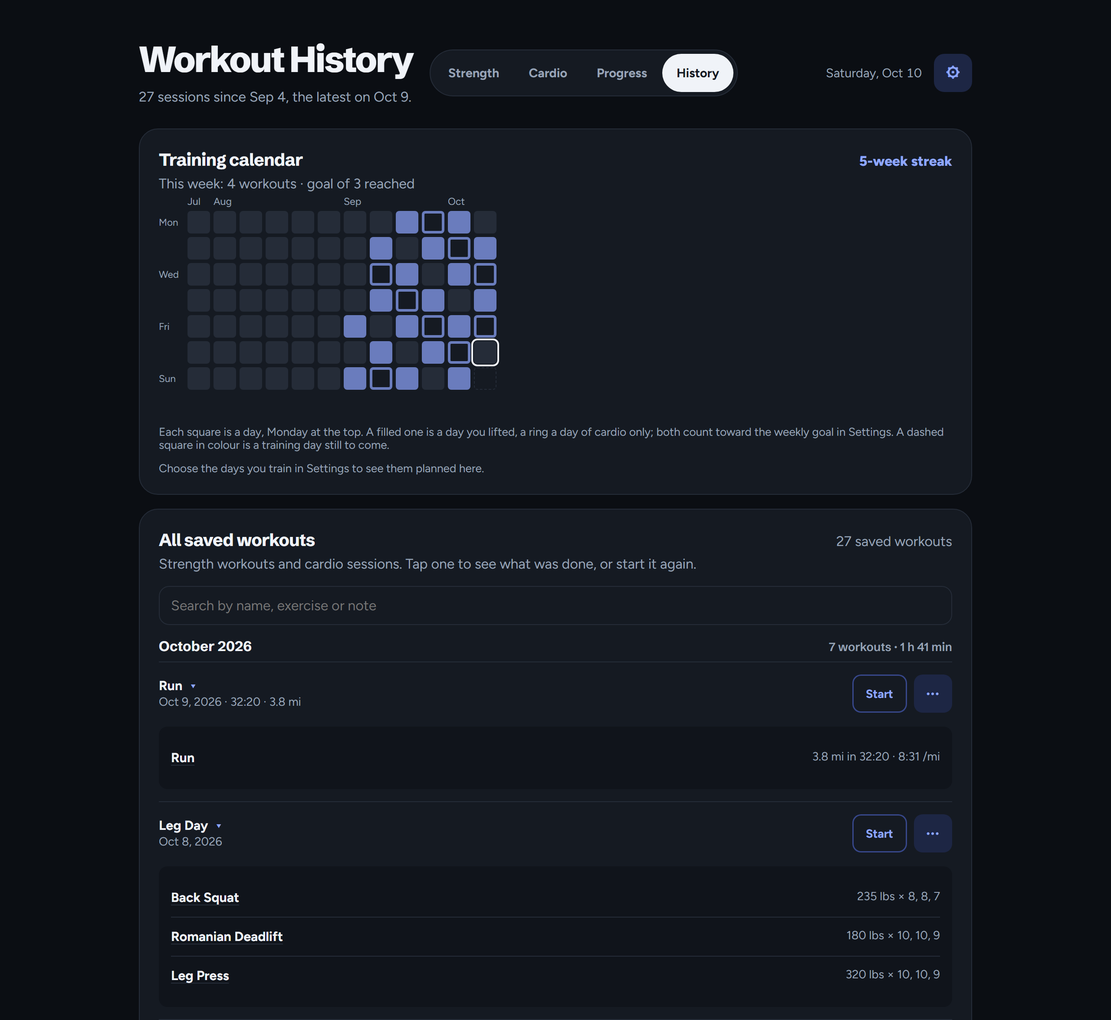
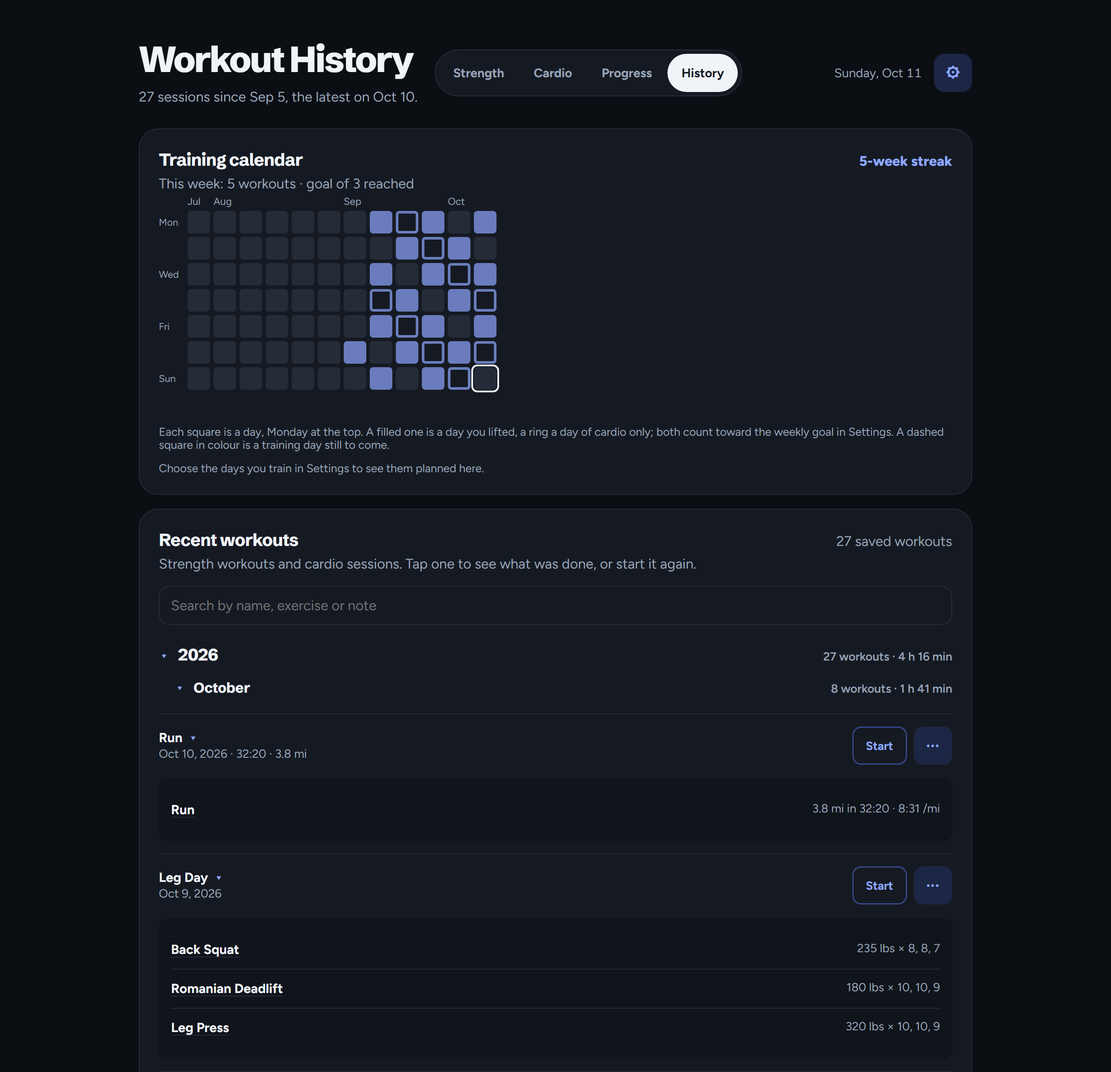
Call the list Recent workouts, and fold History's list into years and months
"Saved workouts" on the Tracker, and "All saved workouts" on History, are now "Recent
workouts".

History's list was one long column: each month under a heading, the latest three months
showing and a button for the rest. It is now years, each holding months, each a heading
that folds and opens (a <details>, so the keyboard and screen readers have it for free),
with its workouts and time beside it. The latest year and its latest month start open
and the rest folded. What is opened or folded by hand is kept when the list is drawn
again (a search, a deletion); a search opens every year and month that has a match, and a
day tapped on the calendar opens the year and month it is in. Show older goes, since
nothing is held back any more.

Every row stays in the page, folded or not, so nothing that looks for a workout in the
list changes. The triangle on a heading is the accent's, as on the other folded things.

Tests: the P9 History block covers a heading for each year and month with its totals, the
latest open and the rest folded, a heading opening and folding its month, a search
opening what it found, what was opened staying so, and the calendar opening a folded
month; both headings. Docs and README screenshots updated.

diff --git a/frontend/history.js b/frontend/history.js
@@ -1,9 +1,11 @@
 // ---- Every saved workout ---------------------------------------------------
-// One line a workout (tap it for its sets), under a heading for its month with that month's workouts and time. A search
-// narrows the list to workouts whose name, exercises or notes have every word typed. The latest few months show at
-// first and Show older brings the rest; a search, or a day picked on the calendar, looks through all of them.
-const monthsShownAtFirst = 3;
-let showingAllMonths = false;
+// One line a workout (tap it for its sets), in a month, in a year; each year and month is folded or open on its heading, with its
+// workouts and time beside it. The latest year and month start open and the rest folded, so the list is not one long column. A
+// search narrows the list to workouts whose name, exercises or notes have every word typed, with every year and month that has
+// one open; a day picked on the calendar opens the year and month it is in.
+// What was opened or closed by hand ("year:2026", "month:2026-10" to true or false), kept when the list is drawn again (a search,
+// a deletion). A group with nothing said about it is open if it is the latest one.
+const groupOpened = new Map();
 // Workouts opened to show their sets, kept open when the list is drawn again (a search, a deletion).
 const openWorkouts = new Set();
 
@@ -20,8 +22,8 @@ function matchesSearch(workout, words) {
   return words.every(word => text.includes(word));
 }
 
-// "12 workouts · 11 h 40 min": the time only counts workouts that were timed.
-function describeMonth(workouts) {
+// "12 workouts · 11 h 40 min", of a month or a year: the time only counts workouts that were timed.
+function describeGroup(workouts) {
   const seconds = workouts.reduce((sum, workout) => sum + (Number(workout.duration) > 0 ? Number(workout.duration) : 0), 0);
   return [plural(workouts.length, 'workout'), seconds ? formatDuration(seconds) : ''].filter(Boolean).join(' · ');
 }
@@ -70,24 +72,43 @@ function renderHistory(workouts) {
   const words = searchWords();
   const shown = words.length ? workouts.filter(workout => matchesSearch(workout, words)) : workouts;
   $('historySummary').textContent = words.length ? `${shown.length} of ${plural(workouts.length, 'saved workout')}` : plural(workouts.length, 'saved workout');
-  // Newest first, as the server sends them, so each month's workouts arrive together.
-  const months = new Map();
+  // Newest first, as the server sends them, so each month's workouts arrive together, and the months of a year.
+  const years = new Map();
   shown.forEach(workout => {
-    const key = monthKey(new Date(workout.createdAt));
-    months.set(key, [...(months.get(key) || []), workout]);
+    const date = new Date(workout.createdAt);
+    const months = years.get(date.getFullYear()) || new Map();
+    months.set(monthKey(date), [...(months.get(monthKey(date)) || []), workout]);
+    years.set(date.getFullYear(), months);
   });
-  const everyMonth = showingAllMonths || words.length > 0;
-  const folded = everyMonth ? [] : [...months.values()].slice(monthsShownAtFirst).flat();
-  const list = [...months].map(([key, monthWorkouts], index) => {
-    const [year, month] = key.split('-').map(Number);
-    const name = new Date(year, month - 1, 1).toLocaleDateString(undefined, { month:'long', year:'numeric' });
-    return `<li class="history-month" data-month="${key}"${!everyMonth && index >= monthsShownAtFirst ? ' hidden' : ''}>`
-      + `<h3 class="history-month-heading"><span>${escapeHTML(name)}</span><span class="history-month-total">${escapeHTML(describeMonth(monthWorkouts))}</span></h3>`
-      + `<ul class="history-month-list">${monthWorkouts.map(historyRow).join('')}</ul></li>`;
+  // A search opens everything it found; otherwise what was said by hand, and the latest year and month when nothing was.
+  const isOpen = (key, latest) => words.length > 0 || (groupOpened.has(key) ? groupOpened.get(key) : latest);
+  const group = (className, open, name, total, body) => `<details class="history-group ${className}"${open ? ' open' : ''}>`
+    + `<summary class="history-group-summary"><h3 class="history-group-name">${escapeHTML(name)}</h3>`
+    + `<span class="history-group-total">${escapeHTML(total)}</span></summary>${body}</details>`;
+  const list = [...years].map(([year, months], yearIndex) => {
+    const monthItems = [...months].map(([key, monthWorkouts], monthIndex) => {
+      const name = new Date(Number(key.slice(0, 4)), Number(key.slice(5)) - 1, 1).toLocaleDateString(undefined, { month:'long' });
+      return `<li class="history-month" data-month="${key}">`
+        + group('history-month-group', isOpen(`month:${key}`, yearIndex === 0 && monthIndex === 0), name, describeGroup(monthWorkouts),
+          `<ul class="history-month-list">${monthWorkouts.map(historyRow).join('')}</ul>`) + '</li>';
+    }).join('');
+    return `<li class="history-year" data-year="${year}">`
+      + group('history-year-group', isOpen(`year:${year}`, yearIndex === 0), String(year), describeGroup([...months.values()].flat()),
+        `<ul class="history-year-list">${monthItems}</ul>`) + '</li>';
   }).join('');
-  const older = folded.length ? `<li class="more-workouts"><button class="secondary" type="button" data-action="older">Show ${plural(folded.length, 'older workout')}</button></li>` : '';
-  $('historyList').innerHTML = shown.length ? list + older
+  $('historyList').innerHTML = shown.length ? list
     : `<li class="empty">${workouts.length ? 'No saved workouts match that search.' : 'No saved workouts yet.'}</li>`;
+}
+
+// A year or a month opened or closed by its heading. Drawn by hand, not left to the browser, so what was said is kept (groupOpened)
+// when the list is drawn again; while a search has everything open, a heading only shows or hides, and nothing is kept.
+function toggleHistoryGroup(summary) {
+  const details = summary.parentElement;
+  const item = details.parentElement;
+  const open = !details.open;
+  details.open = open;
+  if (searchWords().length) return;
+  groupOpened.set(item.dataset.month ? `month:${item.dataset.month}` : `year:${item.dataset.year}`, open);
 }
 
 function showHistoryFeedback(message, failed = false) {
@@ -121,17 +142,15 @@ function showWorkoutDetails(row, open) {
 }
 
 $('historyList').onclick = event => {
+  const heading = event.target.closest('.history-group-summary');
+  if (heading) {
+    event.preventDefault();
+    toggleHistoryGroup(heading);
+    return;
+  }
   const button = event.target.closest('[data-action]');
   if (!button || !historyWorkouts) return;
   const action = button.dataset.action;
-  if (action === 'older') {
-    const first = $('historyList').querySelector('.history-month[hidden]');
-    showingAllMonths = true;
-    renderHistory(historyWorkouts);
-    // Focus goes to the first workout that was folded away, where reading carries on.
-    if (first) $('historyList').querySelector(`.history-month[data-month="${first.dataset.month}"] .saved-workout-toggle`)?.focus();
-    return;
-  }
   const row = button.closest('.history-workout');
   const workout = historyWorkouts.find(item => String(item.id) === row.dataset.id);
   if (!workout) return;
@@ -276,13 +295,15 @@ function showCalendarDay(event) {
 }
 
 // Tapping a day you trained (or Enter on it) goes to its workouts in the list, opened and marked for a moment. One that
-// a search or Show older is keeping out of sight is brought back into it first.
+// a search is keeping out of the list, or a folded year or month is keeping out of sight, is brought back into it first.
 function goToDay(key) {
   const rows = () => [...$('historyList').querySelectorAll(`.history-workout[data-date="${key}"]`)];
   let found = rows();
-  if (!found.length || found.some(row => row.closest('.history-month[hidden]'))) {
+  if (!found.length || found.some(row => row.closest('details:not([open])'))) {
     $('historySearch').value = '';
-    showingAllMonths = true;
+    // A day is "2026-10-09" and its month "2026-10".
+    groupOpened.set(`year:${key.slice(0, 4)}`, true);
+    groupOpened.set(`month:${key.slice(0, 7)}`, true);
     renderHistory(historyWorkouts);
     found = rows();
   }

diff --git a/frontend/styles.css b/frontend/styles.css
@@ -651,10 +651,21 @@ body.has-install-banner .rest-panel { bottom:calc(84px + var(--tab-bar)); }
 /* History: a search, then the workouts a month at a time under a heading with the month's count and time. */
 .history-search { margin-top:16px; }
 .history-feedback { margin:12px 0 0; }
-.history-month-heading { display:flex; flex-wrap:wrap; justify-content:space-between; align-items:baseline; gap:4px 12px; margin:28px 0 8px; font-size:1rem; }
-.history-month:first-child .history-month-heading { margin-top:6px; }
-.history-month-total { color:var(--muted); font-size:.85rem; font-weight:600; }
-.history-month-list { margin:0; padding:0; list-style:none; }
+/* The list is years, each holding months, each folded or open on its heading, with its workouts and time at the right. The heading is
+   the summary of a <details>; its triangle is the accent's, as the other folded things', and turns down when open. A year is the larger
+   heading and is set off from the one above by a hairline. */
+.history-year-list, .history-month-list { margin:0; padding:0; list-style:none; }
+.history-group > summary { display:flex; flex-wrap:wrap; align-items:baseline; gap:2px 10px; list-style:none; cursor:pointer; }
+.history-group > summary::-webkit-details-marker { display:none; }
+.history-group > summary::before { content:"\25B8"; color:var(--accent); font-size:.9em; }
+.history-group[open] > summary::before { content:"\25BE"; }
+.history-group-name { margin:0; font-size:1.02rem; font-weight:750; letter-spacing:-.01em; }
+.history-group-total { margin-left:auto; color:var(--muted); font-size:.85rem; font-weight:600; }
+.history-year { margin-top:10px; border-top:1px solid var(--line); }
+.history-year:first-child { margin-top:6px; border-top:0; }
+.history-year-group > summary .history-group-name { font-size:1.2rem; font-weight:800; letter-spacing:-.025em; }
+.history-year-group > summary { padding:8px 0; }
+.history-month-group > summary { padding:4px 0 4px 18px; }
 .row-actions > .button-link { padding:8px 16px; }
 /* A day picked on the calendar marks its workouts for a moment. */
 @keyframes picked { from { background:var(--accent-soft); box-shadow:0 0 0 8px var(--accent-soft); } to { background:transparent; box-shadow:0 0 0 8px transparent; } }

diff --git a/frontend/history.html b/frontend/history.html
@@ -35,7 +35,7 @@
     </section>
 
     <section class="card">
-      <div class="section-heading heading-line"><h2>All saved workouts</h2><span id="historySummary" class="subtitle"></span></div>
+      <div class="section-heading heading-line"><h2>Recent workouts</h2><span id="historySummary" class="subtitle"></span></div>
       <p class="subtitle heading-intro">Strength workouts and cardio sessions. Tap one to see what was done, or start it again.</p>
       <div class="history-search"><label class="visually-hidden" for="historySearch">Search saved workouts</label><input id="historySearch" type="search" autocomplete="off" placeholder="Search by name, exercise or note" /></div>
       <p class="subtitle history-feedback" id="historyFeedback" role="status" hidden></p>

diff --git a/frontend/index.html b/frontend/index.html
@@ -111,7 +111,7 @@
     </section>
 
     <section class="card between-workouts flat ruled">
-      <div class="section-heading"><div><h2>Saved workouts</h2><p id="storageStatus" class="subtitle"></p></div><div class="section-heading-actions"><button class="secondary" id="createWorkoutBtn" type="button">Create workout</button></div></div>
+      <div class="section-heading"><div><h2>Recent workouts</h2><p id="storageStatus" class="subtitle"></p></div><div class="section-heading-actions"><button class="secondary" id="createWorkoutBtn" type="button">Create workout</button></div></div>
       <ul class="saved-workout-list" id="savedWorkoutList"><li class="empty">No saved workouts yet.</li></ul>
     </section>
   </main>

diff --git a/tests/suites/pages.py b/tests/suites/pages.py
@@ -372,6 +372,8 @@ def run(t):
     # The header says when you last trained (the next workout is the panel under it), by calendar day.
     status = cdp.ev("document.getElementById('pageStatus').textContent")
     check('the header says when you last trained', status == 'Last workout: B Day, 6 days ago.', status)
+    headings = cdp.ev("[...document.querySelectorAll('h2')].map(h => h.textContent)")
+    check('and the list of workouts is called Recent workouts', 'Recent workouts' in headings and 'Saved workouts' not in headings, headings)
     # Start again is the one surface among them; the templates and the saved workouts lie flat on the page, set off by a hairline.
     surfaces = cdp.ev("""['recentCard', 'templatesToggle', 'savedWorkoutList'].map(id => {
         const style = getComputedStyle(document.getElementById(id).closest('section'));
@@ -861,12 +863,19 @@ def run(t):
     settle('/history.html', f"document.querySelectorAll('.history-workout').length === {total}")
 
     def history():
-        return cdp.ev("""(() => ({
-          months: [...document.querySelectorAll('.history-month')].map(m => [m.querySelector('h3 span').textContent, m.querySelector('.history-month-total').textContent, m.hidden]),
-          rows: [...document.querySelectorAll('.history-workout')].filter(r => !r.closest('[hidden]')).map(r => r.querySelector('strong').textContent),
-          open: [...document.querySelectorAll('.history-workout')].filter(r => !r.querySelector('.workout-details').hidden).map(r => r.dataset.id),
-          older: document.querySelector('#historyList [data-action=older]')?.textContent ?? null,
-          summary: document.getElementById('historySummary').textContent }))()""")
+        # A year or a month as [name, its workouts and time, whether it is open]; a row counts as shown when no folded year or month is over it.
+        return cdp.ev("""(() => {
+          const group = (item, name) => [name, item.querySelector('summary .history-group-total').textContent, item.querySelector('details').open];
+          return {
+            years: [...document.querySelectorAll('.history-year')].map(y => group(y, y.dataset.year)),
+            months: [...document.querySelectorAll('.history-month')].map(m => group(m, m.querySelector('summary .history-group-name').textContent)),
+            rows: [...document.querySelectorAll('.history-workout')].filter(r => !r.closest('details:not([open])')).map(r => r.querySelector('strong').textContent),
+            open: [...document.querySelectorAll('.history-workout')].filter(r => !r.querySelector('.workout-details').hidden).map(r => r.dataset.id),
+            summary: document.getElementById('historySummary').textContent }; })()""")
+
+    def fold(selector, index=0):
+        """Press the heading of the nth year or month (the page folds or opens it as a tap does)."""
+        cdp.ev(f"document.querySelectorAll('{selector} > details > summary')[{index}].click()")
 
     def search(words):
         cdp.ev(f"(i => {{ i.value = {json.dumps(words)}; i.dispatchEvent(new Event('input')); }})(document.getElementById('historySearch'))")
@@ -875,8 +884,15 @@ def run(t):
         return f"document.querySelector('.history-workout[data-id=\"{workout_id}\"]')"
 
     state = history()
-    this_month = today.strftime('%B %Y')
+    this_month = today.strftime('%B')
+    # The same workouts as years and months: today's two, and an Old Pull in each of the five months before, which may be last year.
+    years = sorted({today.year} | {mid_month(back).year for back in range(1, 6)}, reverse=True)
+    in_year = lambda year: (2 if year == today.year else 0) + sum(1 for back in range(1, 6) if mid_month(back).year == year)
+    year_total = lambda year: plural_workouts(in_year(year)) + (' · 1 h 30 min' if year == today.year else '')
+    plural_workouts = lambda count: f"{count} workout{'' if count == 1 else 's'}"
     check('each workout is one line, its sets folded away', state['open'] == [] and state['rows'][:2] == ['Leg Day', 'Push Day'], state)
+    check('the list is called Recent workouts', 'Recent workouts' in cdp.ev("[...document.querySelectorAll('h2')].map(h => h.textContent)")
+          and 'Saved workouts' not in cdp.ev("[...document.querySelectorAll('h2')].map(h => h.textContent)"))
     # The line under the page's name says how much there is and since when (this week is the calendar's line).
     status = cdp.ev("document.getElementById('pageStatus').textContent")
     check('the header says how many sessions there are, and since when',
@@ -889,13 +905,23 @@ def run(t):
         return element.getBoundingClientRect().height < parseFloat(getComputedStyle(element).fontSize) * 1.6; }))()""")
     cdp.send('Emulation.clearDeviceMetricsOverride')
     check('on a phone the streak and the count each keep to one line', kept == [True, True], kept)
-    check("under a heading for its month, with the month's workouts and time", state['months'][0] == [this_month, '2 workouts · 1 h 30 min', False], state['months'])
-    check('the latest three months show, and a button brings the rest', [m[2] for m in state['months']] == [False] * 3 + [True] * 3
-          and state['older'] == 'Show 3 older workouts' and len(state['rows']) == 4, state)
+    check("a heading for each year, and each month in it, with its workouts and time",
+          [y[0] for y in state['years']] == [str(year) for year in years] and state['years'][0][1] == year_total(today.year)
+          and state['months'][0][:2] == [this_month, '2 workouts · 1 h 30 min'], [state['years'], state['months']])
+    check('the latest year and month are open, and every other one folded, so the list is not one long column',
+          [y[2] for y in state['years']] == [True] + [False] * (len(years) - 1) and [m[2] for m in state['months']] == [True] + [False] * 5
+          and len(state['rows']) == 2, state)
     cdp.ev(f"{row(push)}.querySelector('[data-action=view]').click()")
     check('tapping a workout shows its sets and notes', history()['open'] == [str(push)]
           and 'Felt strong' in cdp.ev(f"{row(push)}.querySelector('.workout-details').textContent")
           and cdp.ev(f"{row(push)}.querySelector('[data-action=view]').getAttribute('aria-expanded')") == 'true')
+    # A heading opens its month, and the next press folds it; the month before this one is the second (in a folded year if it is last year's).
+    if years[0] == mid_month(1).year:
+        fold('.history-month', 1)
+        state = history()
+        check('pressing a month heading opens it, with its workout', state['months'][1][2] is True and len(state['rows']) == 3, state)
+        fold('.history-month', 1)
+        check('and pressing it again folds it', history()['months'][1][2] is False and len(history()['rows']) == 2, history())
 
     search('squat')
     state = history()
@@ -904,16 +930,27 @@ def run(t):
     check('or by a note, whatever the case', history()['rows'] == ['Push Day'], history()['rows'])
     search('deadlift')
     state = history()
-    check('and looks through every month, the older ones too', state['rows'] == ['Old Pull'] * 5 and state['older'] is None, state)
+    check('and looks through every month, the older ones too, each opened for what it found',
+          state['rows'] == ['Old Pull'] * 5 and len(state['months']) == 5 and all(m[2] for m in state['months'])
+          and all(y[2] for y in state['years']), state)
     search('old squat')
     check('every word has to match', cdp.ev("document.getElementById('historyList').textContent") == 'No saved workouts match that search.')
     search('')
     state = history()
-    check('clearing it brings the list back as it was, the open workout still open', len(state['rows']) == 4 and state['open'] == [str(push)], state)
-    cdp.ev("document.querySelector('#historyList [data-action=older]').click()")
+    check('clearing it brings the list back as it was, the open workout still open',
+          state['rows'] == ['Leg Day', 'Push Day'] and state['open'] == [str(push)] and [m[2] for m in state['months']] == [True] + [False] * 5, state)
+    # Every year and month, opened by their headings (the years first, since a month in a folded year is not shown).
+    cdp.ev("[...document.querySelectorAll('.history-year > details:not([open]) > summary')].forEach(s => s.click())")
+    cdp.ev("[...document.querySelectorAll('.history-month > details:not([open]) > summary')].forEach(s => s.click())")
     state = history()
-    check('Show older brings the older months', not any(m[2] for m in state['months']) and len(state['rows']) == total and state['older'] is None, state)
-    check('with the focus on the first of them', cdp.ev("document.activeElement === document.querySelectorAll('.history-month')[3].querySelector('.saved-workout-toggle')") is True)
+    check('opening each of them shows every workout', all(y[2] for y in state['years']) and all(m[2] for m in state['months']) and len(state['rows']) == total, state)
+    # What was opened by hand is kept when the list is drawn again (here by a search that is then cleared).
+    search('squat')
+    search('')
+    check('and what was opened stays open when the list is drawn again', len(history()['rows']) == total, len(history()['rows']))
+    fold('.history-month', 0)
+    check('the latest month can be folded too, and stays so', len(history()['rows']) == total - 2 and history()['months'][0][2] is False, history())
+    fold('.history-month', 0)
 
     # The calendar leads to a day's workouts, opened and marked for a moment, even when a search was hiding them.
     settle('/history.html', f"document.querySelectorAll('.history-workout').length === {total}")
@@ -927,8 +964,8 @@ def run(t):
           and cdp.ev(f"document.activeElement === {row(legs)}.querySelector('.saved-workout-toggle')") is True)
     old = mid_month(4).isoformat()
     cdp.ev(f"goToDay('{old}')")
-    check('a day in a month still folded away brings the older months out first',
-          cdp.ev(f"!document.querySelector('.history-workout[data-date=\"{old}\"]').closest('[hidden]') && !document.querySelector('.history-workout[data-date=\"{old}\"] .workout-details').hidden") is True)
+    check('a day in a month still folded away opens its year and month first',
+          cdp.ev(f"!document.querySelector('.history-workout[data-date=\"{old}\"]').closest('details:not([open])') && !document.querySelector('.history-workout[data-date=\"{old}\"] .workout-details').hidden") is True)
 
     # The ⋯ menu: copying and editing open the Tracker's form; deleting happens here.
     cdp.ev(f"{row(legs)}.querySelector('.row-menu summary').click()")

diff --git a/tests/README.md b/tests/README.md
@@ -73,7 +73,7 @@ a few vary by platform or by the day.
 | `gym_usability` | Last time's numbers, correcting logged sets, the bar, plates and weight step from Settings (fewest plates, each unit its own), moving between exercises, skipped exercises, message visibility, the phone layout, session expiry, sign-in links crafted to lead off-site afterwards, signing out, the controls within reach (the set entry first, the −5/+5 buttons, the plates for barbell lifts, plates drawn to size, the rest timer staying on screen above or below, notes folded away), the phone's tab bar and small header, the rest of the Tracker out of the way during a workout, the exercise's ⋯ menu, undoing a removed set, even after moving on, until the offer lapses or the workout ends, a loaded lift with no weight asked about first (not a bodyweight one, nor a 0 typed in), Finish tapped twice, the edit form on a phone, a set far past your best asked about (logging, correcting, saying no and yes), reps that must be whole, and Finish early |
 | `pwa` | The manifest and icons, service-worker registration, what is and is not cached, the theme colour, the signed-out redirect, a deploy reaching the next load, the install banner on phones (iPhone and Android wording, the Install button, dismissing, staying away once installed, and over plain HTTP, where only iPhones get it), a reload with the server killed, and one where the server accepts connections but never answers |
 | `security` | The Content-Security-Policy leaving every page working (the Cardio page's timer and form included) while blocking injected scripts, stored text that looks like markup staying text on every page, the sign-in page on a server with registration closed, and a page on another port of the same address failing to make changes with the session cookie |
-| `pages` | Bodyweight on Progress (logging, a weight far from the last asked about, the trend, units, removing, a phone), every page loading its scripts without an error and with the shared helpers, drawn in Schibsted Grotesk (titles and the weight and reps being logged) and Figtree (everything else, clocks included), both served with the app, an older cached script (as served for one load after an update) still being able to declare its own `$`, Progress treating differently typed exercise names as one, the saved-workout buttons working from the list on screen (offline included), nothing marked hidden showing (the empty-chart message, the rest timer), sets written compactly (bodyweight as reps) in History, the Tracker and last time's line, the Tracker listing the 10 most recent workouts (3 of them until Show more), chart dates that never overlap, buttons in the page's own font, a number pad for every number field, and the theme following the device (live, before the page is drawn, on the sign-in page too) unless Light or Dark is chosen, the Tracker's order (Start again with the workout that is due first, templates folded once there is history and open for someone new, each saved workout showing only Start with the rest in its menu, on one line on a phone), and the training calendar: its days (tapping one to see its workouts), this week against the weekly goal, the current and best streaks, a goal changed in Settings, and moving between days with the arrow keys; the template editor giving focus back to its button; History a line a workout under month headings with their totals, the latest three months first, a search by name, exercise or note, a calendar day leading to its workouts, and the ⋯ menu's Copy as new, Edit (in the Tracker's form) and Delete (offline too); and Progress: opening on the exercise done most, workouts placed by date, values written only where they fit (with several workout types, on a phone), a tapped point, the chart described for a screen reader, its axis on round numbers from zero (and bodyweight's never below it), the estimated one-rep max, personal records, and goals (a target already lifted asked about first) |
+| `pages` | Bodyweight on Progress (logging, a weight far from the last asked about, the trend, units, removing, a phone), every page loading its scripts without an error and with the shared helpers, drawn in Schibsted Grotesk (titles and the weight and reps being logged) and Figtree (everything else, clocks included), both served with the app, an older cached script (as served for one load after an update) still being able to declare its own `$`, Progress treating differently typed exercise names as one, the saved-workout buttons working from the list on screen (offline included), nothing marked hidden showing (the empty-chart message, the rest timer), sets written compactly (bodyweight as reps) in History, the Tracker and last time's line, the Tracker listing the 10 most recent workouts (3 of them until Show more), chart dates that never overlap, buttons in the page's own font, a number pad for every number field, and the theme following the device (live, before the page is drawn, on the sign-in page too) unless Light or Dark is chosen, the Tracker's order (Start again with the workout that is due first, templates folded once there is history and open for someone new, each saved workout showing only Start with the rest in its menu, on one line on a phone), and the training calendar: its days (tapping one to see its workouts), this week against the weekly goal, the current and best streaks, a goal changed in Settings, and moving between days with the arrow keys; the template editor giving focus back to its button; History a line a workout in a month in a year, each year and month a folding heading with its totals (the latest open, the rest folded, what was opened kept), a search by name, exercise or note, a calendar day leading to its workouts, and the ⋯ menu's Copy as new, Edit (in the Tracker's form) and Delete (offline too); and Progress: opening on the exercise done most, workouts placed by date, values written only where they fit (with several workout types, on a phone), a tapped point, the chart described for a screen reader, its axis on round numbers from zero (and bodyweight's never below it), the estimated one-rep max, personal records, and goals (a target already lifted asked about first) |
 | `units` | Kilograms: the unit setting, pound workouts shown in kilograms and back without being rewritten, logging in kilograms with the 20 kg plate calculator and 2.5 kg steps, a unit change mid-workout or from another device, Progress, programs in kilograms, converting a program, and the server refusing any other unit |
 | `workout_tools` | Exercise name suggestions; the summary of a finished workout and its personal records (heaviest weight, estimated one-rep max, bodyweight reps, longest hold, none for a first time, offline too); going straight to any exercise; swapping an exercise, back again (in another unit too), and after sets are logged; swapping in a training program, which counts the day but leaves the main lift's weight; rest per exercise in programs and templates; timed exercises with their hold timer, in History and on Progress; and the server checking the new fields |
 | `training_tools` | Progression in your own templates (sets and a rep range, going up once every set reaches the top, staying until then, a saved workout started again, and the server refusing a set count out of range), Notes kept with an exercise (across workouts and reloads, and removed), going heavier when every set reached its target (and not after a set that fell short or had no reps left), warm-up sets for barbell lifts (following the weight, not for other lifts, and off in Settings), the reps each set had left (optional, saved, off in Settings), past sessions in a workout and every session on Progress (with the note), History's links to them, and supersets made mid-workout and in the template editor |

diff --git a/readme-for-llm.md b/readme-for-llm.md
@@ -604,18 +604,20 @@ Progress beside them. The Strength tab is the Tracker, which keeps to strength w
 - With a training schedule (Settings), the calendar also marks the training days still to come in the week, with the
   workout planned for each, and Coming up lists the next six. See [Training schedule and
   reminders](#training-schedule-and-reminders).
-- Review all saved workouts on the History page, a line each under a heading for its month, with that
-  month's workouts and training time ("September 2026 · 14 workouts · 12 h 19 min"). Each shows its
-  name and date (tap it for the sets), Start, and a ⋯ menu to copy it as a new workout, edit it (both
-  in the Tracker's form), or delete it. The latest three months show at first, and Show older brings
-  the rest.
+- Review all saved workouts on the History page, under Recent workouts: a line each, in a month, in a year. Each year
+  and month is a heading that folds and opens, with its workouts and training time beside it ("2026 · 41 workouts ·
+  30 h 2 min", "October · 14 workouts · 12 h 19 min"). The latest year and its latest month start open and the rest
+  folded, so the list is not one long column; what you open or fold stays so when the list is drawn again (a search, a
+  deletion). Each workout shows its name and date (tap it for the sets), Start, and a ⋯ menu to copy it as a new
+  workout, edit it (both in the Tracker's form), or delete it.
 - Search History by workout name, exercise, activity or note; every word typed has to match, and the search
-  looks through every month.
+  looks through every year and month, opening each that has a match.
 - Cardio sessions are listed with the workouts, under their activity's name with their day, time and distance ("Oct 1,
   2026 · 32:20 · 3.8 mi"), and open to show everything they did ("3.8 mi in 32:20 · 8:31 /mi · 152 bpm"). Both kinds
   count toward the weekly goal and the month's totals.
 - Tapping a day you trained on the calendar (or Enter on it) goes to that day's workouts in the list,
-  opened and marked for a moment, even if a search or Show older was keeping them out of sight.
+  opened and marked for a moment, even if a search was keeping them out of the list or a folded year or month out of sight
+  (its year and month are opened).
 - The Tracker lists the 3 most recent workouts, with Show more for the next 7 and a link to the rest
   in History, with the same row and ⋯ menu.
 - See workout dates, how long each workout took, exercises, weights, reps, completed sets, and notes.
